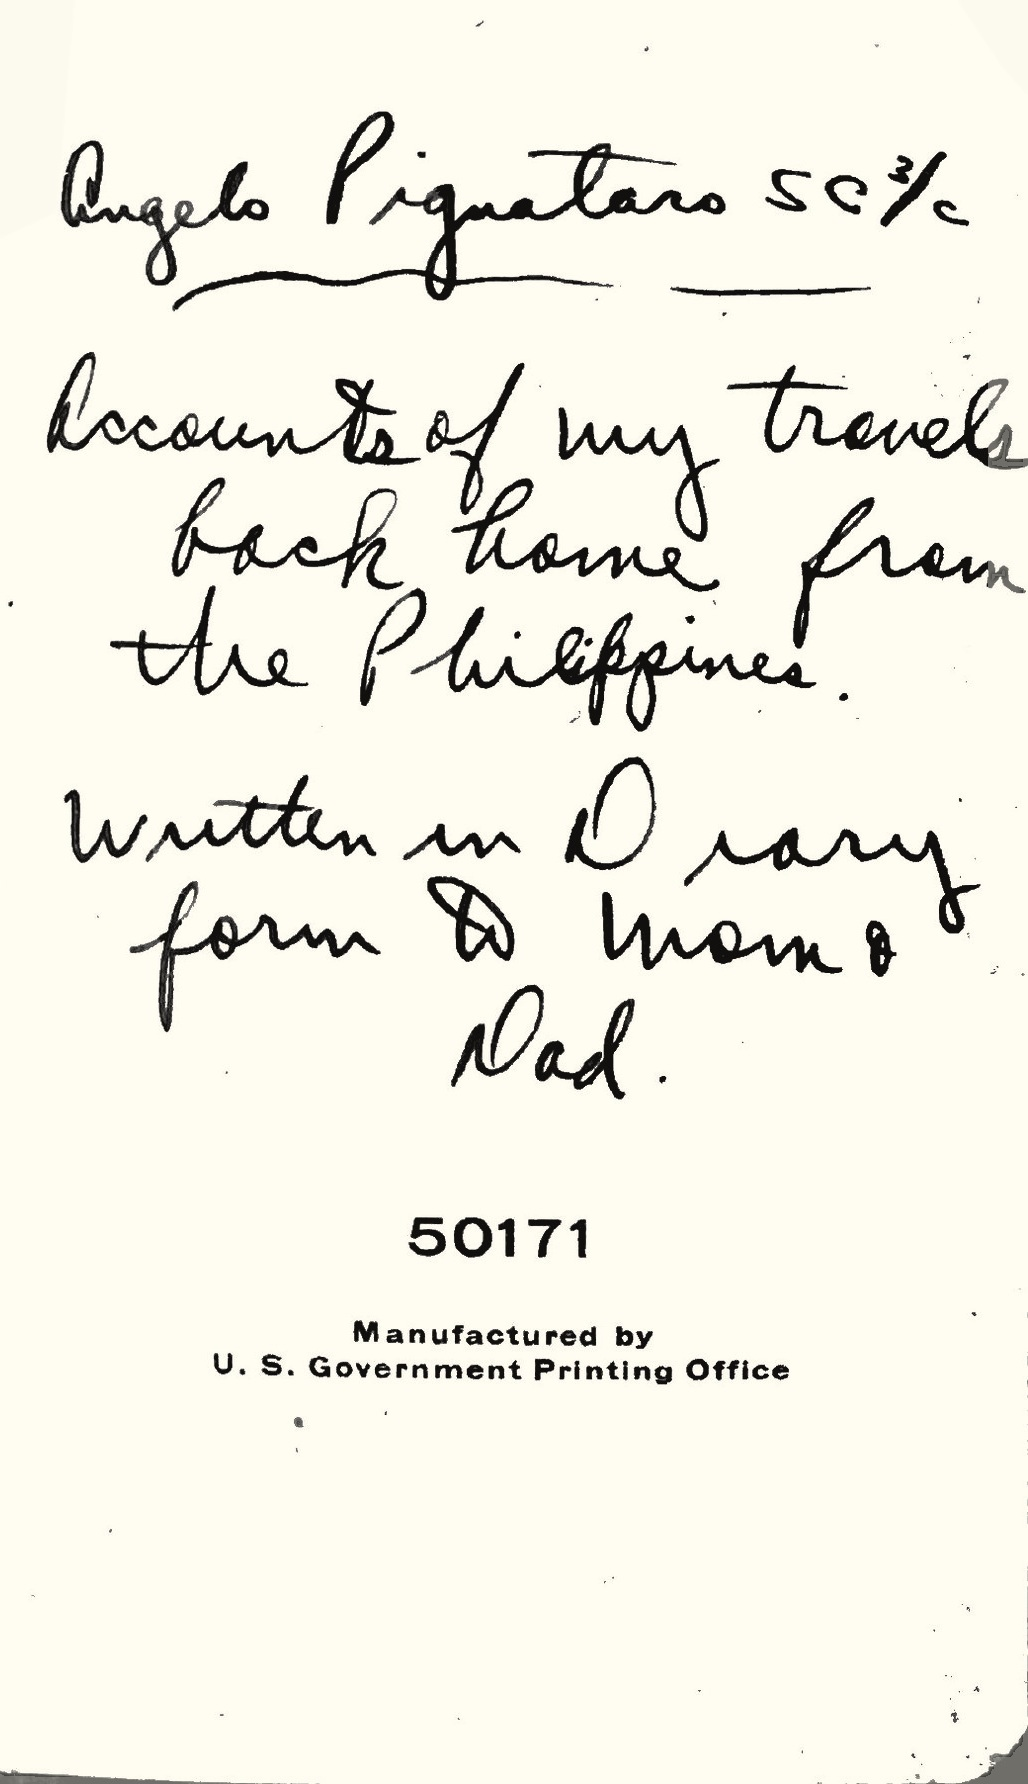
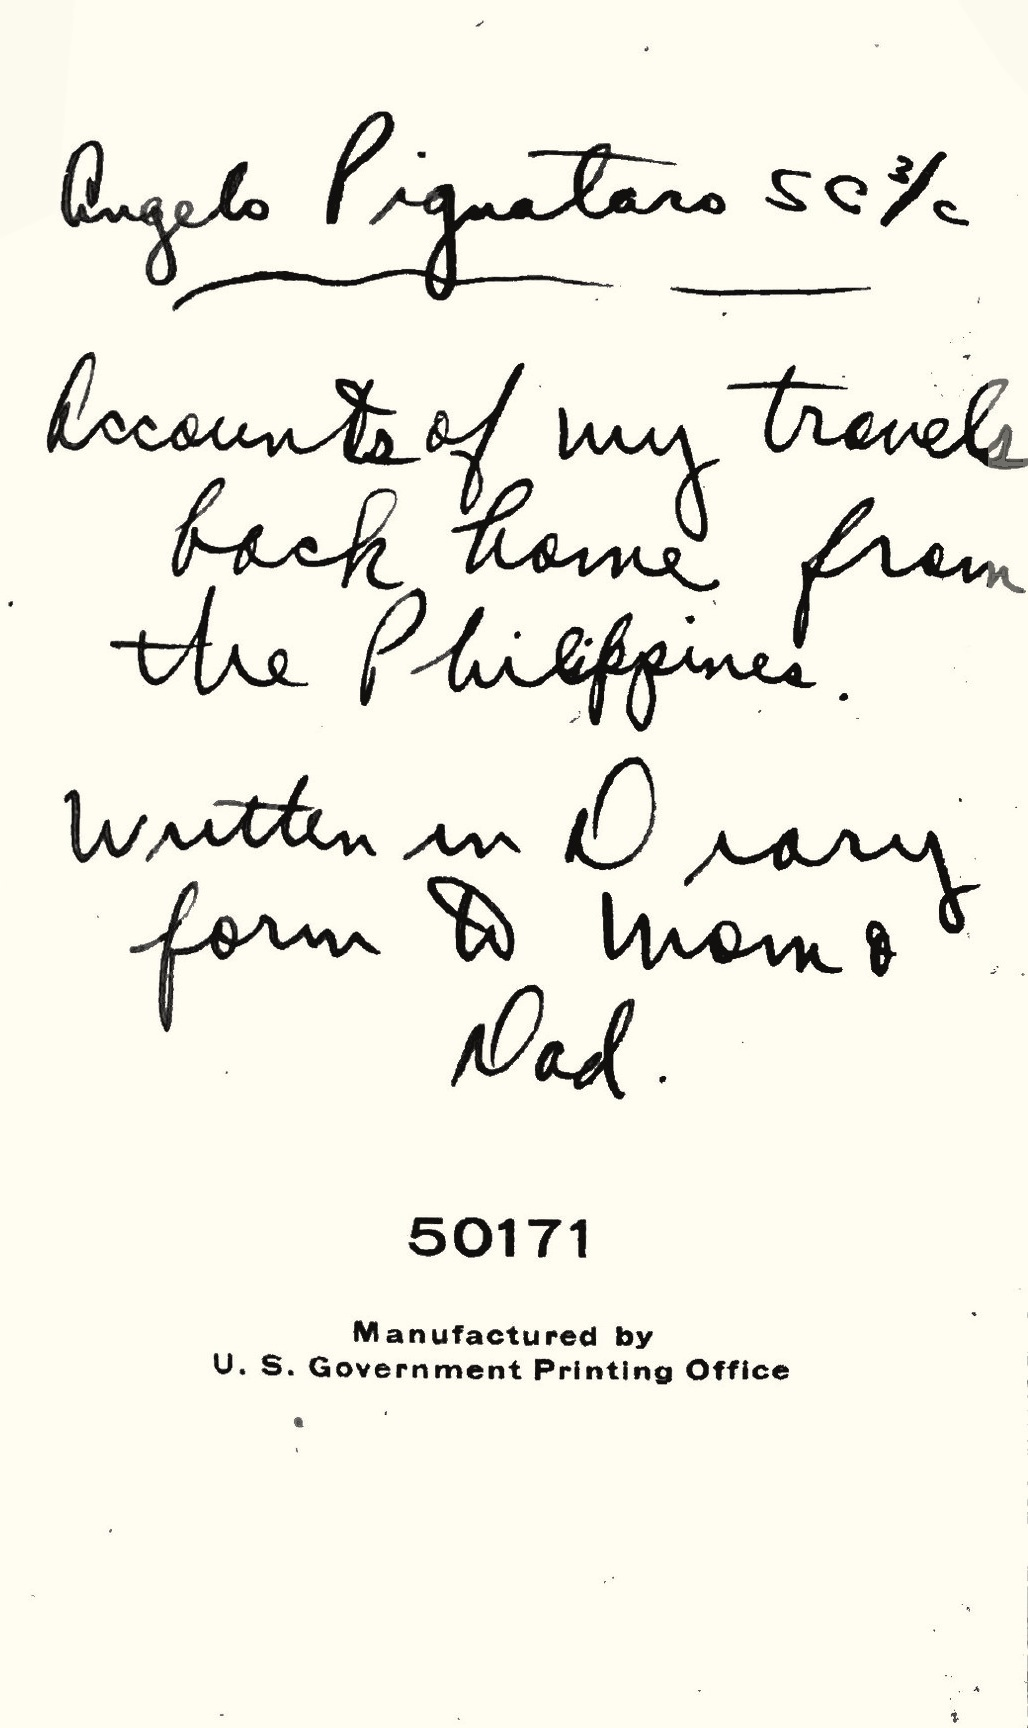
Trim dedication page bottom shadow

diff --git a/docs/index.html b/docs/index.html
@@ -463,7 +463,7 @@
     <section class="column handwrittenColumn" aria-label="Dedication handwritten page">
       
       <figure>
-        <img src="assets/pages_shadow_midpoint/page_01.jpg" alt="Handwritten diary Page 01" width="1028" height="1784" loading="lazy">
+        <img src="assets/pages_shadow_midpoint/page_01.jpg" alt="Handwritten diary Page 01" width="1028" height="1728" loading="lazy">
         
       </figure>
     </section>

diff --git a/scripts/clean-handwritten-shadows.py b/scripts/clean-handwritten-shadows.py
@@ -12,6 +12,7 @@ from PIL import Image
 
 
 BOTTOM_CROP_HEIGHTS = {
+    "page_01.jpg": 1728,
     "page_37.jpg": 1515,
     "page_38.jpg": 1518,
     "page_41.jpg": 1508,
